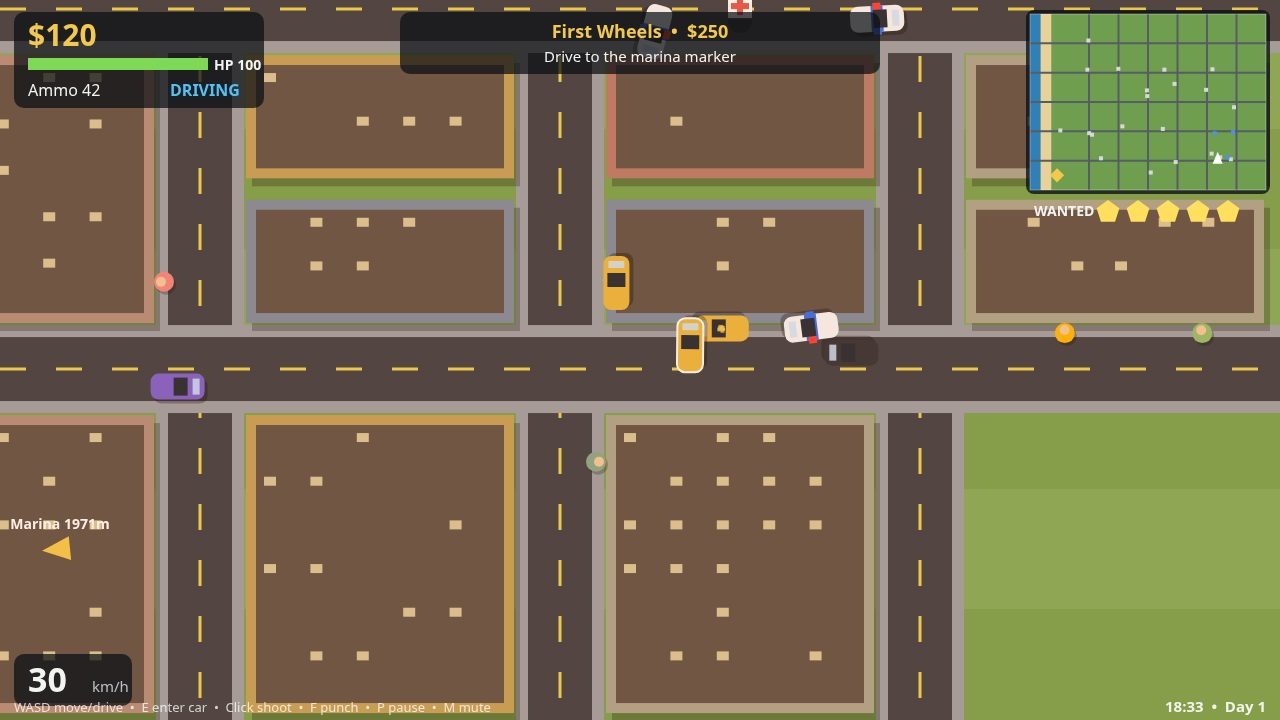
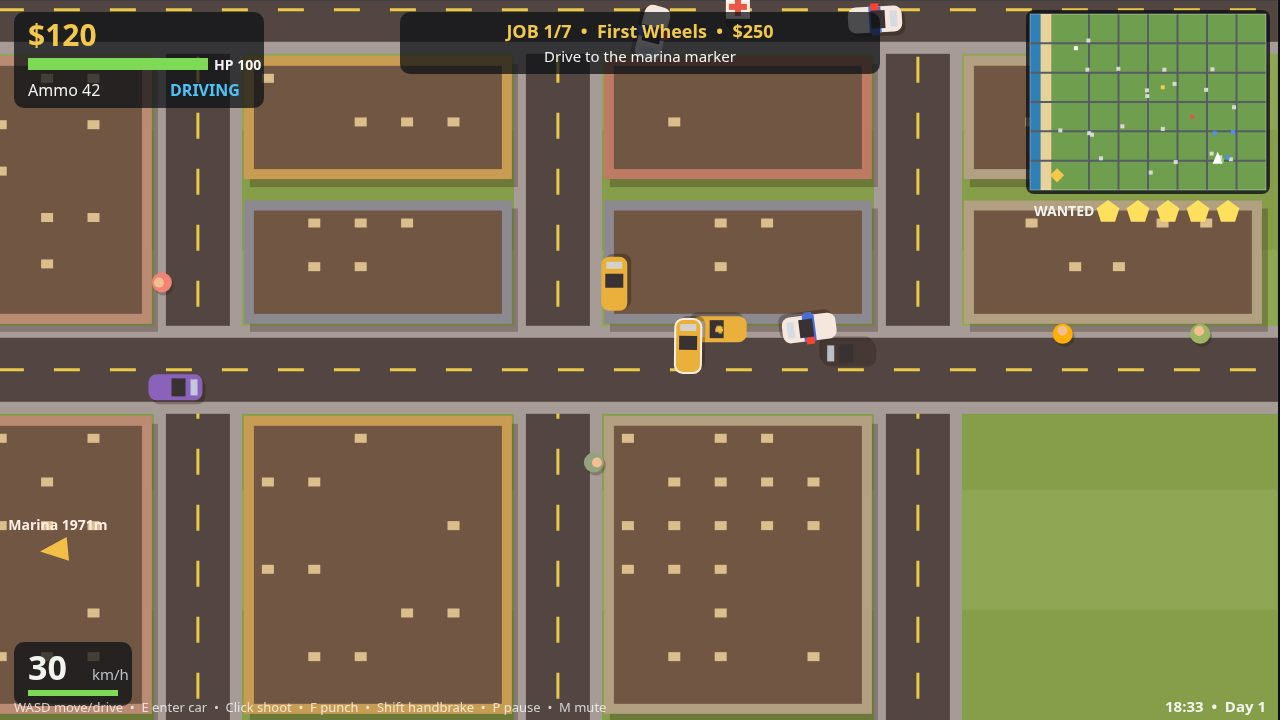
Solmar Heat v2: 7 missions, handbrake drift, crash shake, HUD/minimap polish

diff --git a/game/src/render.js b/game/src/render.js
@@ -7,7 +7,7 @@
 import { CAR, CITY, FONT, PALETTE, PED, PLAYER, VIEW, WORLD } from './config.js';
 import { clamp } from './random.js';
 import { PLACES } from './world.js';
-import { missionObjective } from './missions.js';
+import { missionObjective, missionProgress } from './missions.js';
 
 export const SCREEN_TITLE = 'title';
 export const SCREEN_PLAY = 'play';
@@ -103,6 +103,16 @@ export function createRenderer(canvas) {
         context.moveTo(20, y + Math.sin(state.time * 1.4 + y * 0.05) * 6);
         context.quadraticCurveTo(70, y + 8, 120, y + Math.sin(state.time * 1.4 + y * 0.05) * 6);
         context.stroke();
+      }
+      // Boats bobbing in the bay.
+      for (const [bx, by, bc] of [[70, 480, '#f4f6f8'], [100, 1420, '#e8b73d'], [55, 980, '#d94f3d']]) {
+        const bob = Math.sin(state.time * 1.1 + by * 0.01) * 4;
+        context.fillStyle = bc;
+        context.beginPath();
+        context.ellipse(bx, by + bob, 26, 10, 0.2, 0, Math.PI * 2);
+        context.fill();
+        context.fillStyle = '#5c5148';
+        context.fillRect(bx - 2, by + bob - 22, 3, 22);
       }
       context.fillStyle = PALETTE.sand;
       context.fillRect(Math.max(vx0, CITY.beachWidth - 130), vy0, Math.min(CITY.beachWidth, vx1) - Math.max(vx0, CITY.beachWidth - 130), VIEW.height);
@@ -419,18 +429,26 @@ export function createRenderer(canvas) {
     text(`Ammo ${player.ammo}`, 28, 96, 16, PALETTE.text, 'left');
     text(player.car ? 'DRIVING' : 'ON FOOT', 170, 96, 16, PALETTE.blue, 'left', true);
 
-    // Top-centre: current mission.
+    // Top-centre: current mission, with job number and a progress bar.
     const mission = state.mission;
     if (mission) {
-      const label = `${mission.def.title}  •  $${mission.def.reward}`;
+      const label = `JOB ${mission.index + 1}/7  •  ${mission.def.title}  •  $${mission.def.reward}`;
       const obj = missionObjective(state);
+      const prog = missionProgress(state);
+      const h = prog ? 80 : 62;
       context.fillStyle = 'rgba(10,14,20,0.72)';
       const w = 480;
-      rr(VIEW.width / 2 - w / 2, 12, w, 62, 10);
+      rr(VIEW.width / 2 - w / 2, 12, w, h, 10);
       context.fill();
       text(label, VIEW.width / 2, 38, 18, PALETTE.gold, 'center', true);
       text(obj, VIEW.width / 2, 62, 15, PALETTE.text, 'center');
-      if (mission.timer > 0 && mission.index === 1) {
+      if (prog) {
+        context.fillStyle = '#333';
+        context.fillRect(VIEW.width / 2 - 200, 72, 400, 7);
+        context.fillStyle = PALETTE.gold;
+        context.fillRect(VIEW.width / 2 - 200, 72, 400 * Math.max(0, Math.min(1, prog.frac)), 7);
+      }
+      if (mission.timer > 0 && (mission.index === 1 || mission.index === 5)) {
         text(`${Math.ceil(mission.timer)}s`, VIEW.width / 2 + w / 2 - 34, 38, 16, PALETTE.red, 'center', true);
       }
     }
@@ -456,16 +474,22 @@ export function createRenderer(canvas) {
       context.fill();
     }
 
-    // Bottom-left: speed in its own dark chip, above the hint line.
+    // Bottom-left: speed in its own dark chip, above the hint line,
+    // with the car's health bar underneath the speed.
     if (player.car) {
       const kmh = Math.round(Math.abs(player.car.speed) * 0.36);
       context.fillStyle = 'rgba(10,14,20,0.72)';
-      rr(14, VIEW.height - 66, 118, 52, 10);
+      rr(14, VIEW.height - 78, 118, 64, 10);
       context.fill();
-      text(`${kmh}`, 28, VIEW.height - 28, 34, PALETTE.text, 'left', true);
-      text('km/h', 92, VIEW.height - 28, 15, PALETTE.muted, 'left');
+      text(`${kmh}`, 28, VIEW.height - 40, 34, PALETTE.text, 'left', true);
+      text('km/h', 92, VIEW.height - 40, 15, PALETTE.muted, 'left');
+      const carHealth = Math.max(0, player.car.health) / 100;
+      context.fillStyle = '#333';
+      context.fillRect(28, VIEW.height - 30, 90, 6);
+      context.fillStyle = carHealth > 0.4 ? PALETTE.green : PALETTE.red;
+      context.fillRect(28, VIEW.height - 30, 90 * carHealth, 6);
     }
-    text('WASD move/drive  •  E enter car  •  Click shoot  •  F punch  •  P pause  •  M mute', 14, VIEW.height - 8, 13, 'rgba(255,255,255,0.75)', 'left');
+    text('WASD move/drive  •  E enter car  •  Click shoot  •  F punch  •  Shift handbrake  •  P pause  •  M mute', 14, VIEW.height - 8, 13, 'rgba(255,255,255,0.75)', 'left');
     // Bottom-right: clock and day.
     text(`${clockText(state.clock)}  •  Day ${state.day}`, VIEW.width - 14, VIEW.height - 8, 15, PALETTE.text, 'right', true);
 
@@ -509,6 +533,15 @@ export function createRenderer(canvas) {
     }
     const px = (x) => MINIMAP.x + x * sx;
     const py = (y) => MINIMAP.y + y * sy;
+    // Key places, colour-coded, so the map reads without the mission marker.
+    const placeDots = [
+      [PLACES.marina, '#4fc3f7'], [PLACES.plaza, '#f2c94c'], [PLACES.docks, '#ffffff'],
+      [PLACES.hideout, '#7ed957'], [PLACES.vault, '#e5534b'],
+    ];
+    for (const [place, color] of placeDots) {
+      context.fillStyle = color;
+      context.fillRect(px(place.x) - 2, py(place.y) - 2, 4, 4);
+    }
     for (const car of state.cars) {
       context.fillStyle = car.kind === 'cop' ? '#4d8dff' : '#d8d8d8';
       context.fillRect(px(car.x) - 2, py(car.y) - 2, 4, 4);
@@ -571,12 +604,16 @@ export function createRenderer(canvas) {
     const cam = state.camera;
     const vx0 = clamp(cam.x - VIEW.width / 2, 0, WORLD.width - VIEW.width);
     const vy0 = clamp(cam.y - VIEW.height / 2, 0, WORLD.height - VIEW.height);
-    context.setTransform(view.scale, 0, 0, view.scale, view.x - vx0 * view.scale, view.y - vy0 * view.scale);
+    // Crash shake: a small deterministic wobble that fades with state.shake.
+    const shake = state.shake || 0;
+    const ox = shake > 0 ? Math.sin(state.time * 47) * shake * 7 : 0;
+    const oy = shake > 0 ? Math.cos(state.time * 39) * shake * 7 : 0;
+    context.setTransform(view.scale, 0, 0, view.scale, view.x - (vx0 + ox) * view.scale, view.y - (vy0 + oy) * view.scale);
     drawWorld(state);
     context.setTransform(view.scale, 0, 0, view.scale, view.x, view.y);
     if (screen === SCREEN_TITLE) {
       const lines = [
-        'Port Solmar. Sun, sea, and five jobs that pay.',
+        'Port Solmar. Sun, sea, and seven jobs that pay.',
         'Steal cars, lose the police, run the story — Mara Voss is waiting.',
         'WASD / arrows to move and drive  •  E to enter a car  •  Click to shoot',
         `Best haul so far: $${(extra.best || 0).toLocaleString('en-US')}`,
@@ -585,6 +622,13 @@ export function createRenderer(canvas) {
       return;
     }
     drawHud(state);
+    // Low-health vignette: a pulsing red frame while the player is hurt.
+    if (screen === SCREEN_PLAY && state.player.health < 35) {
+      const pulse = 0.10 + 0.07 * Math.sin(state.time * 5);
+      context.strokeStyle = `rgba(229,83,75,${pulse.toFixed(3)})`;
+      context.lineWidth = 26;
+      context.strokeRect(13, 13, VIEW.width - 26, VIEW.height - 26);
+    }
     if (screen === SCREEN_PAUSED) {
       drawPanel('Paused', ['The city waits. Your heat does not cool while paused.', 'M mute sound  •  R restart the run'], 'Press P to resume', PALETTE.blue);
     } else if (screen === SCREEN_OVER) {

diff --git a/game/src/missions.js b/game/src/missions.js
@@ -36,6 +36,9 @@ function startMission(state, index) {
     hasCash: false,
     route: null,
     targetCar: null,
+    passenger: null,
+    checkpoints: null,
+    checkpointIndex: 0,
   };
   if (index === 0) {
     setTarget(mission, PLACES.marina);
@@ -58,6 +61,24 @@ function startMission(state, index) {
     mission.target = { x: PLACES.hideout.x, y: PLACES.hideout.y, label: PLACES.hideout.label };
     state.wanted = Math.max(state.wanted, 3);
   } else if (index === 4) {
+    // Taxi Fare: a passenger waits at the plaza; pick them up in a car.
+    const passenger = {
+      x: PLACES.plaza.x, y: PLACES.plaza.y, angle: 0,
+      speed: 0, color: '#ffd166', mode: 'wait',
+      tx: PLACES.plaza.x, ty: PLACES.plaza.y, wait: 0, down: 0,
+    };
+    state.peds.push(passenger);
+    mission.passenger = passenger;
+    mission.phase = 'pickup';
+    setTarget(mission, PLACES.plaza);
+  } else if (index === 5) {
+    // Smuggler's Run: three drops in order against the clock.
+    mission.checkpoints = [PLACES.docks, PLACES.plaza, PLACES.marina];
+    mission.checkpointIndex = 0;
+    mission.timer = 110;
+    mission.phase = 'run';
+    setTarget(mission, mission.checkpoints[0]);
+  } else if (index === 6) {
     setTarget(mission, PLACES.vault);
     mission.phase = 'grab';
   }
@@ -92,8 +113,33 @@ export function missionObjective(state) {
   }
   if (mission.index === 2) return mission.phase === 'tail' ? 'Stay close behind the courier van' : 'The van stopped — get to it';
   if (mission.index === 3) return mission.phase === 'hide' ? 'Lose the police (wanted level to zero)' : 'Reach the hideout in the old town';
-  if (mission.index === 4) return mission.phase === 'grab' ? 'Grab the vault cash at Solmar Trust (on foot)' : 'Escape to the hideout with the cash';
+  if (mission.index === 4) {
+    return mission.phase === 'pickup'
+      ? 'Pick up the passenger at Solmar Plaza (drive up in a car)'
+      : 'Drop the passenger at the Marina — smooth ride, no heat';
+  }
+  if (mission.index === 5) {
+    const next = mission.checkpoints ? mission.checkpoints[mission.checkpointIndex] : null;
+    return next ? `Drop ${mission.checkpointIndex + 1}/3: reach ${next.label} — ${Math.ceil(mission.timer)}s left` : 'Run the drops';
+  }
+  if (mission.index === 6) return mission.phase === 'grab' ? 'Grab the vault cash at Solmar Trust (on foot)' : 'Escape to the hideout with the cash';
   return def.objective;
+}
+
+/** Progress bar for the HUD: { label, frac 0..1 } or null when the job has none. */
+export function missionProgress(state) {
+  const mission = state.mission;
+  if (!mission) return null;
+  if (mission.index === 2 && mission.phase === 'tail') {
+    return { label: 'Tail progress', frac: Math.min(1, mission.tailTime / 8) };
+  }
+  if (mission.index === 4) {
+    return { label: 'Taxi Fare', frac: mission.phase === 'drop' ? 0.5 : 0 };
+  }
+  if (mission.index === 5 && mission.checkpoints) {
+    return { label: `Drops ${mission.checkpointIndex}/3`, frac: mission.checkpointIndex / 3 };
+  }
+  return null;
 }
 
 /**
@@ -164,6 +210,29 @@ export function updateMissions(state, city, dt) {
       return completeMission(state);
     }
   } else if (mission.index === 4) {
+    if (mission.phase === 'pickup') {
+      if (player.car && dTarget < 70) {
+        // The passenger gets in: take them off the street, drive to the marina.
+        state.peds = state.peds.filter((p) => p !== mission.passenger);
+        mission.phase = 'drop';
+        setTarget(mission, PLACES.marina);
+      }
+    } else if (dTarget < REACH) {
+      return completeMission(state);
+    }
+  } else if (mission.index === 5) {
+    mission.timer -= dt;
+    if (dTarget < REACH) {
+      mission.checkpointIndex += 1;
+      if (mission.checkpointIndex >= mission.checkpoints.length) return completeMission(state);
+      setTarget(mission, mission.checkpoints[mission.checkpointIndex]);
+    } else if (mission.timer <= 0) {
+      // Clock ran out: the run restarts from the first drop.
+      mission.checkpointIndex = 0;
+      mission.timer = 110;
+      setTarget(mission, mission.checkpoints[0]);
+    }
+  } else if (mission.index === 6) {
     if (mission.phase === 'grab') {
       if (!player.car && dTarget < 60) {
         mission.hasCash = true;

diff --git a/game/src/entities.js b/game/src/entities.js
@@ -69,6 +69,7 @@ export function createState(random, city) {
     stats: { carsStolen: 0, pedsHit: 0, shotsFired: 0, missionsDone: 0, arrests: 0 },
     message: '',
     messageTimer: 0,
+    shake: 0,
     over: false,
     busted: false,
     won: false,
@@ -264,6 +265,7 @@ function stepPlayerOnFoot(state, ctl, dt) {
     player.ammo -= 1;
     state.stats.shotsFired += 1;
     const a = player.angle + state.rng.range(-0.03, 0.03);
+    burst(state, player.x + Math.cos(a) * 24, player.y + Math.sin(a) * 24, '#ffe66d', 3, 60); // muzzle flash
     state.bullets.push({
       x: player.x + Math.cos(a) * 20, y: player.y + Math.sin(a) * 20,
       vx: Math.cos(a) * COMBAT.bulletSpeed, vy: Math.sin(a) * COMBAT.bulletSpeed,
@@ -329,11 +331,24 @@ function stepDriving(state, ctl, dt) {
   else car.speed -= Math.sign(car.speed) * CAR.drag * Math.abs(car.speed) * dt * 2;
   if (Math.abs(car.speed) < 8 && throttle === 0) car.speed = 0;
   car.speed = clamp(car.speed, -CAR.maxReverse, CAR.maxSpeed);
-  const turn = steer * CAR.turnRate * dt * (car.speed >= 0 ? 1 : -1) * clamp(Math.abs(car.speed) / 120, 0.3, 1);
+  // Handbrake (Shift): sharper steering, speed bleeds off, tyres smoke.
+  const drifting = ctl.run && Math.abs(car.speed) > 120;
+  const turn = steer * CAR.turnRate * dt * (car.speed >= 0 ? 1 : -1) * clamp(Math.abs(car.speed) / 120, 0.3, 1) * (drifting ? CAR.driftTurn : 1);
+  if (drifting) {
+    car.speed -= Math.sign(car.speed) * CAR.driftDrag * dt;
+    if (state.rng.chance(dt * 22)) {
+      const bx = car.x - Math.cos(car.angle) * 22;
+      const by = car.y - Math.sin(car.angle) * 22;
+      state.particles.push({ x: bx, y: by, vx: state.rng.range(-20, 20), vy: state.rng.range(-20, 20), life: 0.5, max: 0.5, color: '#cfcfcf', size: state.rng.range(4, 7) });
+    }
+  } else if (ctl.run && Math.abs(car.speed) > 0) {
+    car.speed -= Math.sign(car.speed) * CAR.driftDrag * 2 * dt; // handbrake at low speed: hard stop
+  }
   car.angle += turn;
   if (!moveCarWithSlide(state, car, dt)) {
     if (Math.abs(car.speed) > 200) {
       events |= EVENT_CRASH;
+      state.shake = Math.min(1, (state.shake || 0) + 0.5);
       burst(state, car.x, car.y, '#c9c9c9', 10, 160);
       car.health -= 12;
     }
@@ -366,6 +381,7 @@ function stepDriving(state, ctl, dt) {
         other.speed *= 0.4;
         car.speed *= 0.55;
         events |= EVENT_CRASH;
+        state.shake = Math.min(1, (state.shake || 0) + 0.3);
         burst(state, other.x, other.y, '#f2c94c', 8, 150);
         if (other.health <= 0 && !other.wrecked) {
           other.wrecked = true;
@@ -490,6 +506,8 @@ function stepPeds(state, dt) {
       }
       continue;
     }
+    // 'wait' is the taxi passenger: they stand at the plaza until picked up.
+    if (ped.mode === 'wait') continue;
     const danger = state.bullets.some((b) => b.from === 'player' && dist(b.x, b.y, ped.x, ped.y) < 90)
       || (player.car && dist(player.x, player.y, ped.x, ped.y) < 130 && Math.abs(player.speed) > 150)
       || (state.wanted >= 3 && dist(player.x, player.y, ped.x, ped.y) < 160);
@@ -576,6 +594,7 @@ function stepPoliceCars(state, dt) {
     // player cannot pin the car in place step after step.
     if (d < CAR.radius + PLAYER.radius + 6 && car.ramTimer <= 0) {
       car.ramTimer = 0.9;
+      state.shake = Math.min(1, (state.shake || 0) + 0.35);
       if (player.car) {
         player.car.health -= 8;
         car.speed *= 0.7;
@@ -720,6 +739,7 @@ export function stepGame(state, ctl, dt) {
     state.day += 1;
   }
   if (state.messageTimer > 0) state.messageTimer -= dt;
+  if (state.shake > 0) state.shake = Math.max(0, state.shake - dt * 1.8);
   if (state.over) return events;
 
   if (ctl.enter && !player.car) {

diff --git a/game/src/config.js b/game/src/config.js
@@ -39,6 +39,9 @@ export const CAR = {
   maxReverse: 160,
   turnRate: 2.6,
   drag: 0.55,
+  /** Handbrake (Shift) drift: sharper steering, speed bleeds off. */
+  driftTurn: 1.7,
+  driftDrag: 140,
   trafficSpeed: 150,
   policeSpeed: 520,
 };
@@ -66,7 +69,7 @@ export const WANTED = {
   decayStep: 9,
 };
 
-/** Five linked jobs, in story order. Rewards are paid in dollars. */
+/** Seven linked jobs, in story order. Rewards are paid in dollars. */
 export const MISSIONS = [
   {
     id: 'first-wheels',
@@ -99,6 +102,22 @@ export const MISSIONS = [
     briefing: 'The Solmar police are on you now. Lose the heat, then reach the hideout in the old town.',
     objective: 'Lose the police, then reach the hideout',
     reward: 800,
+  },
+  {
+    id: 'taxi-fare',
+    title: 'Taxi Fare',
+    giver: 'Dario Kent',
+    briefing: 'A high-roller is waiting at Solmar Plaza and pays for a smooth ride. Pick them up in a car and drop them at the marina — no cops, no crashes.',
+    objective: 'Pick up the passenger at Solmar Plaza, drop them at the Marina',
+    reward: 700,
+  },
+  {
+    id: 'smugglers-run',
+    title: "Smuggler's Run",
+    giver: 'Mara Voss',
+    briefing: 'Three drops, one clock: the docks, then Solmar Plaza, then the marina — in that order, before the timer runs out.',
+    objective: 'Hit all three drop points in order before the timer ends',
+    reward: 900,
   },
   {
     id: 'the-big-score',
